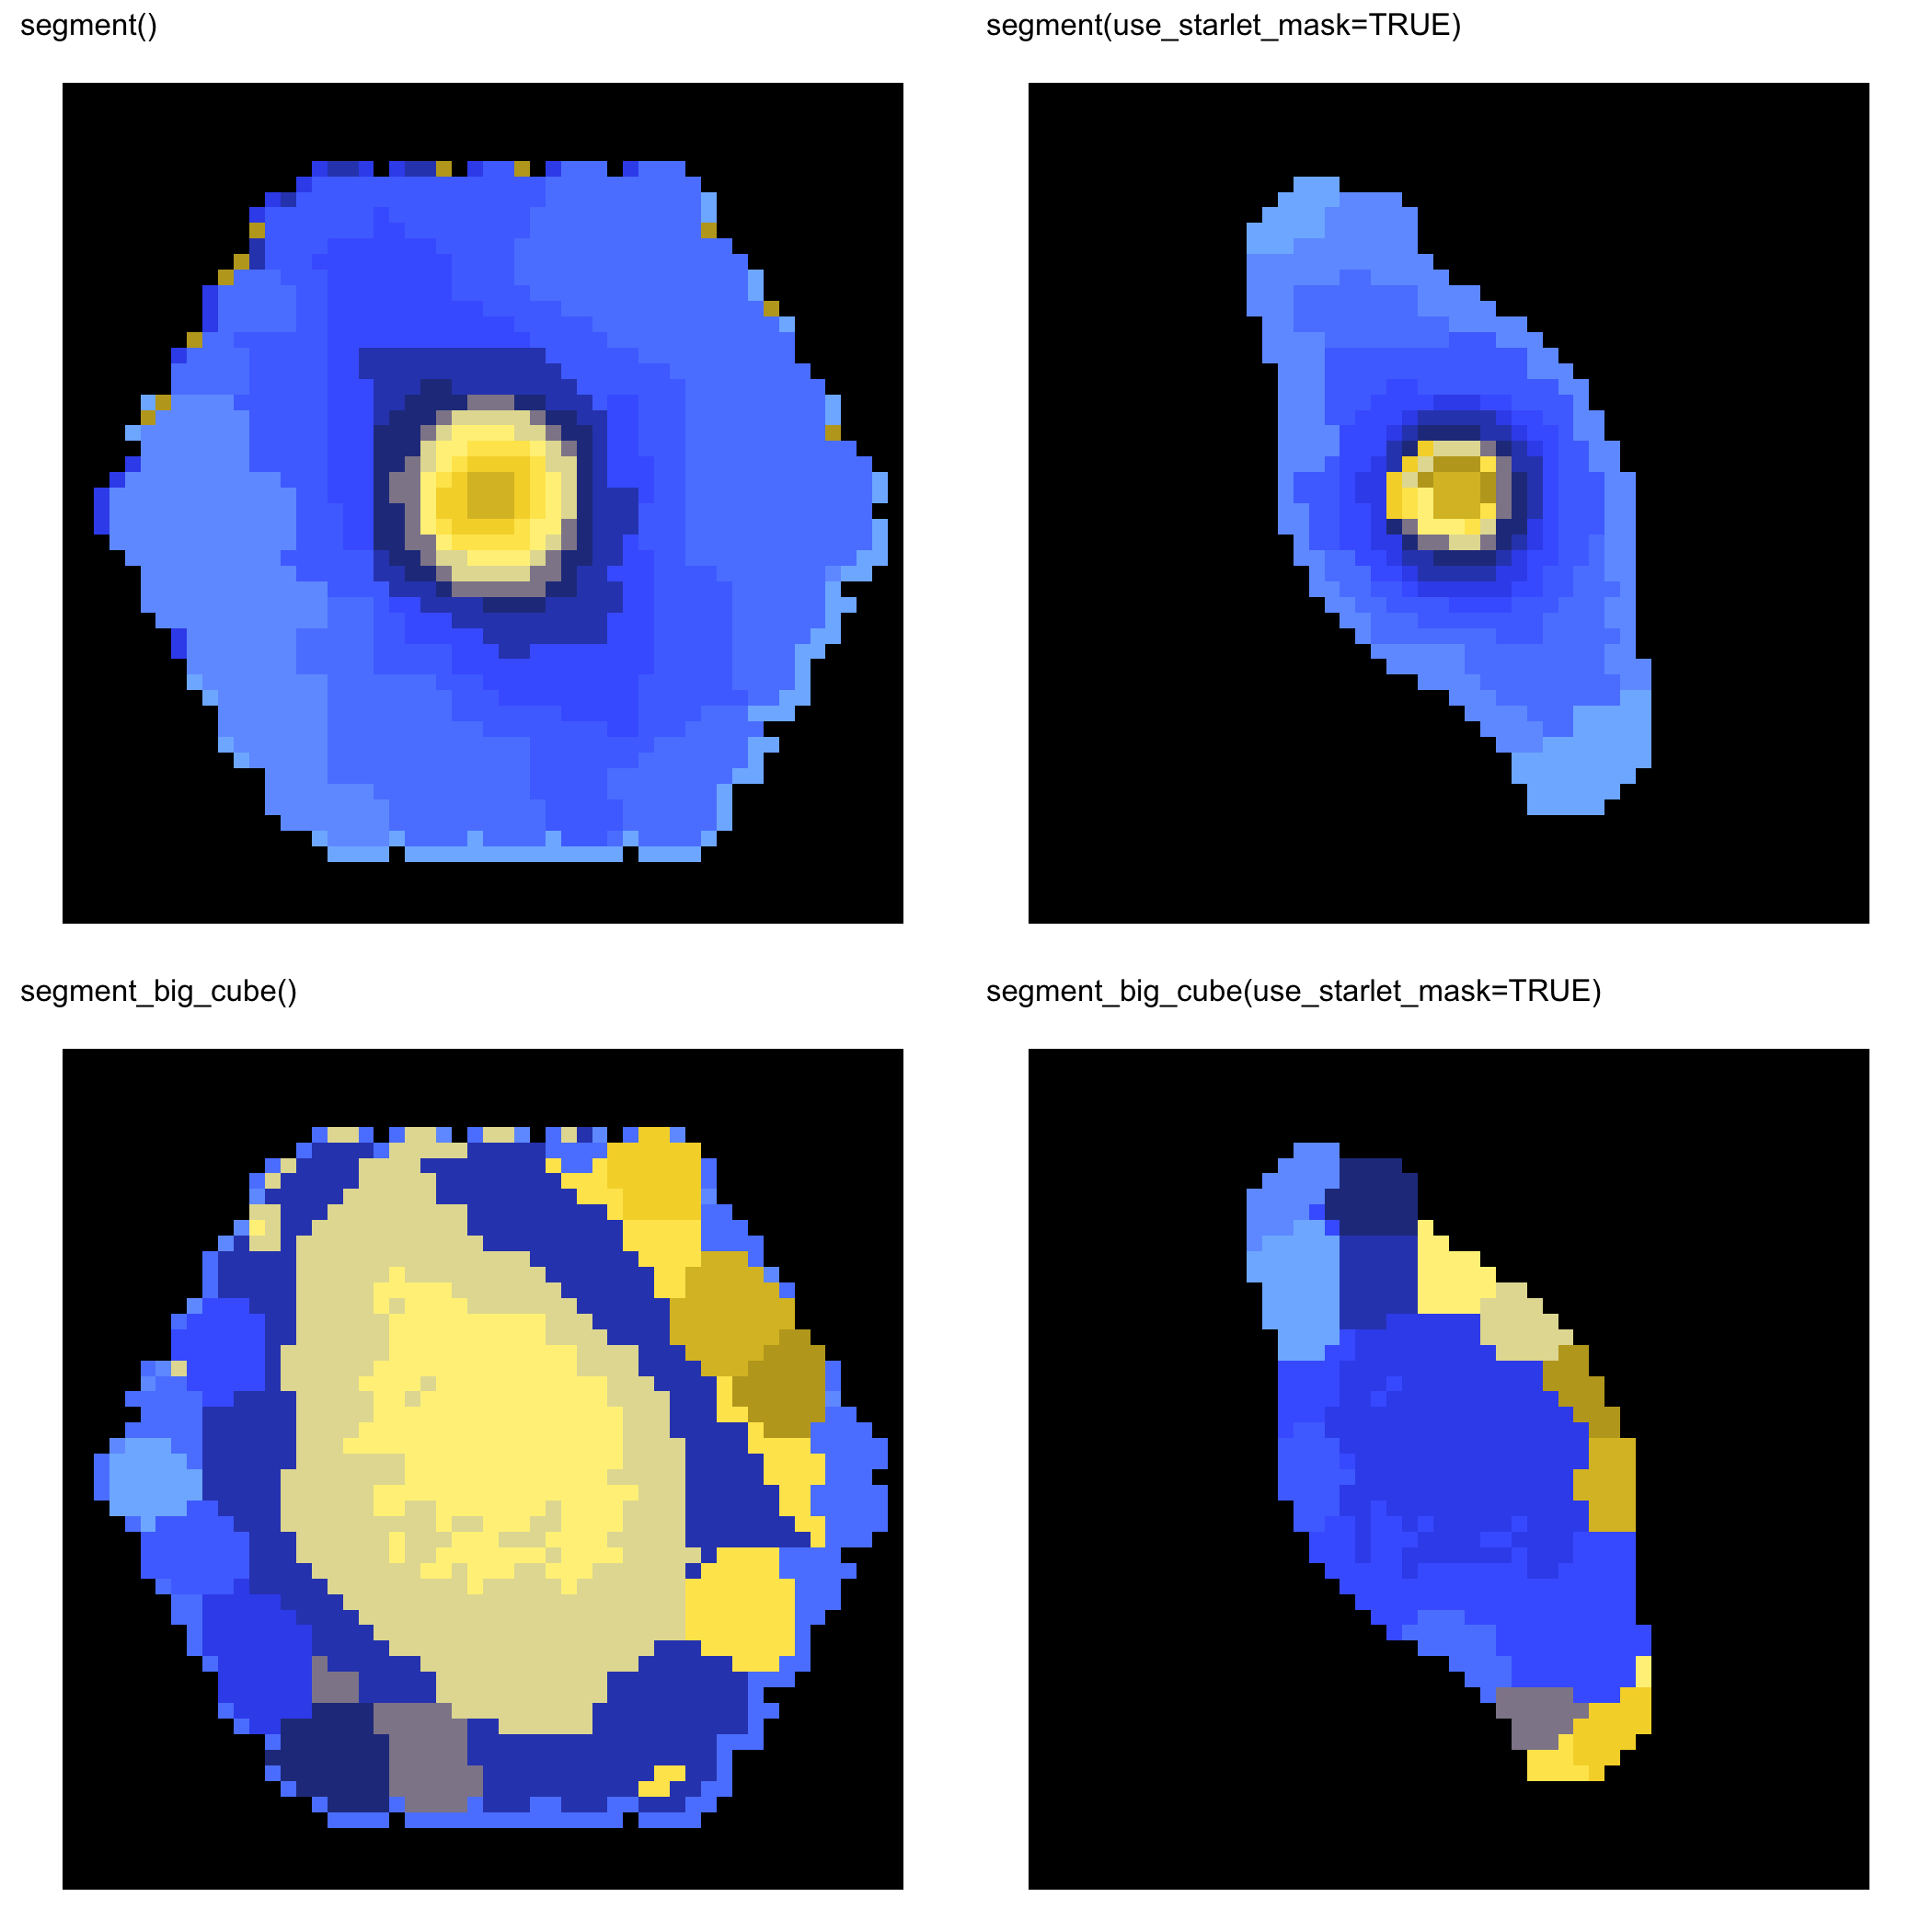
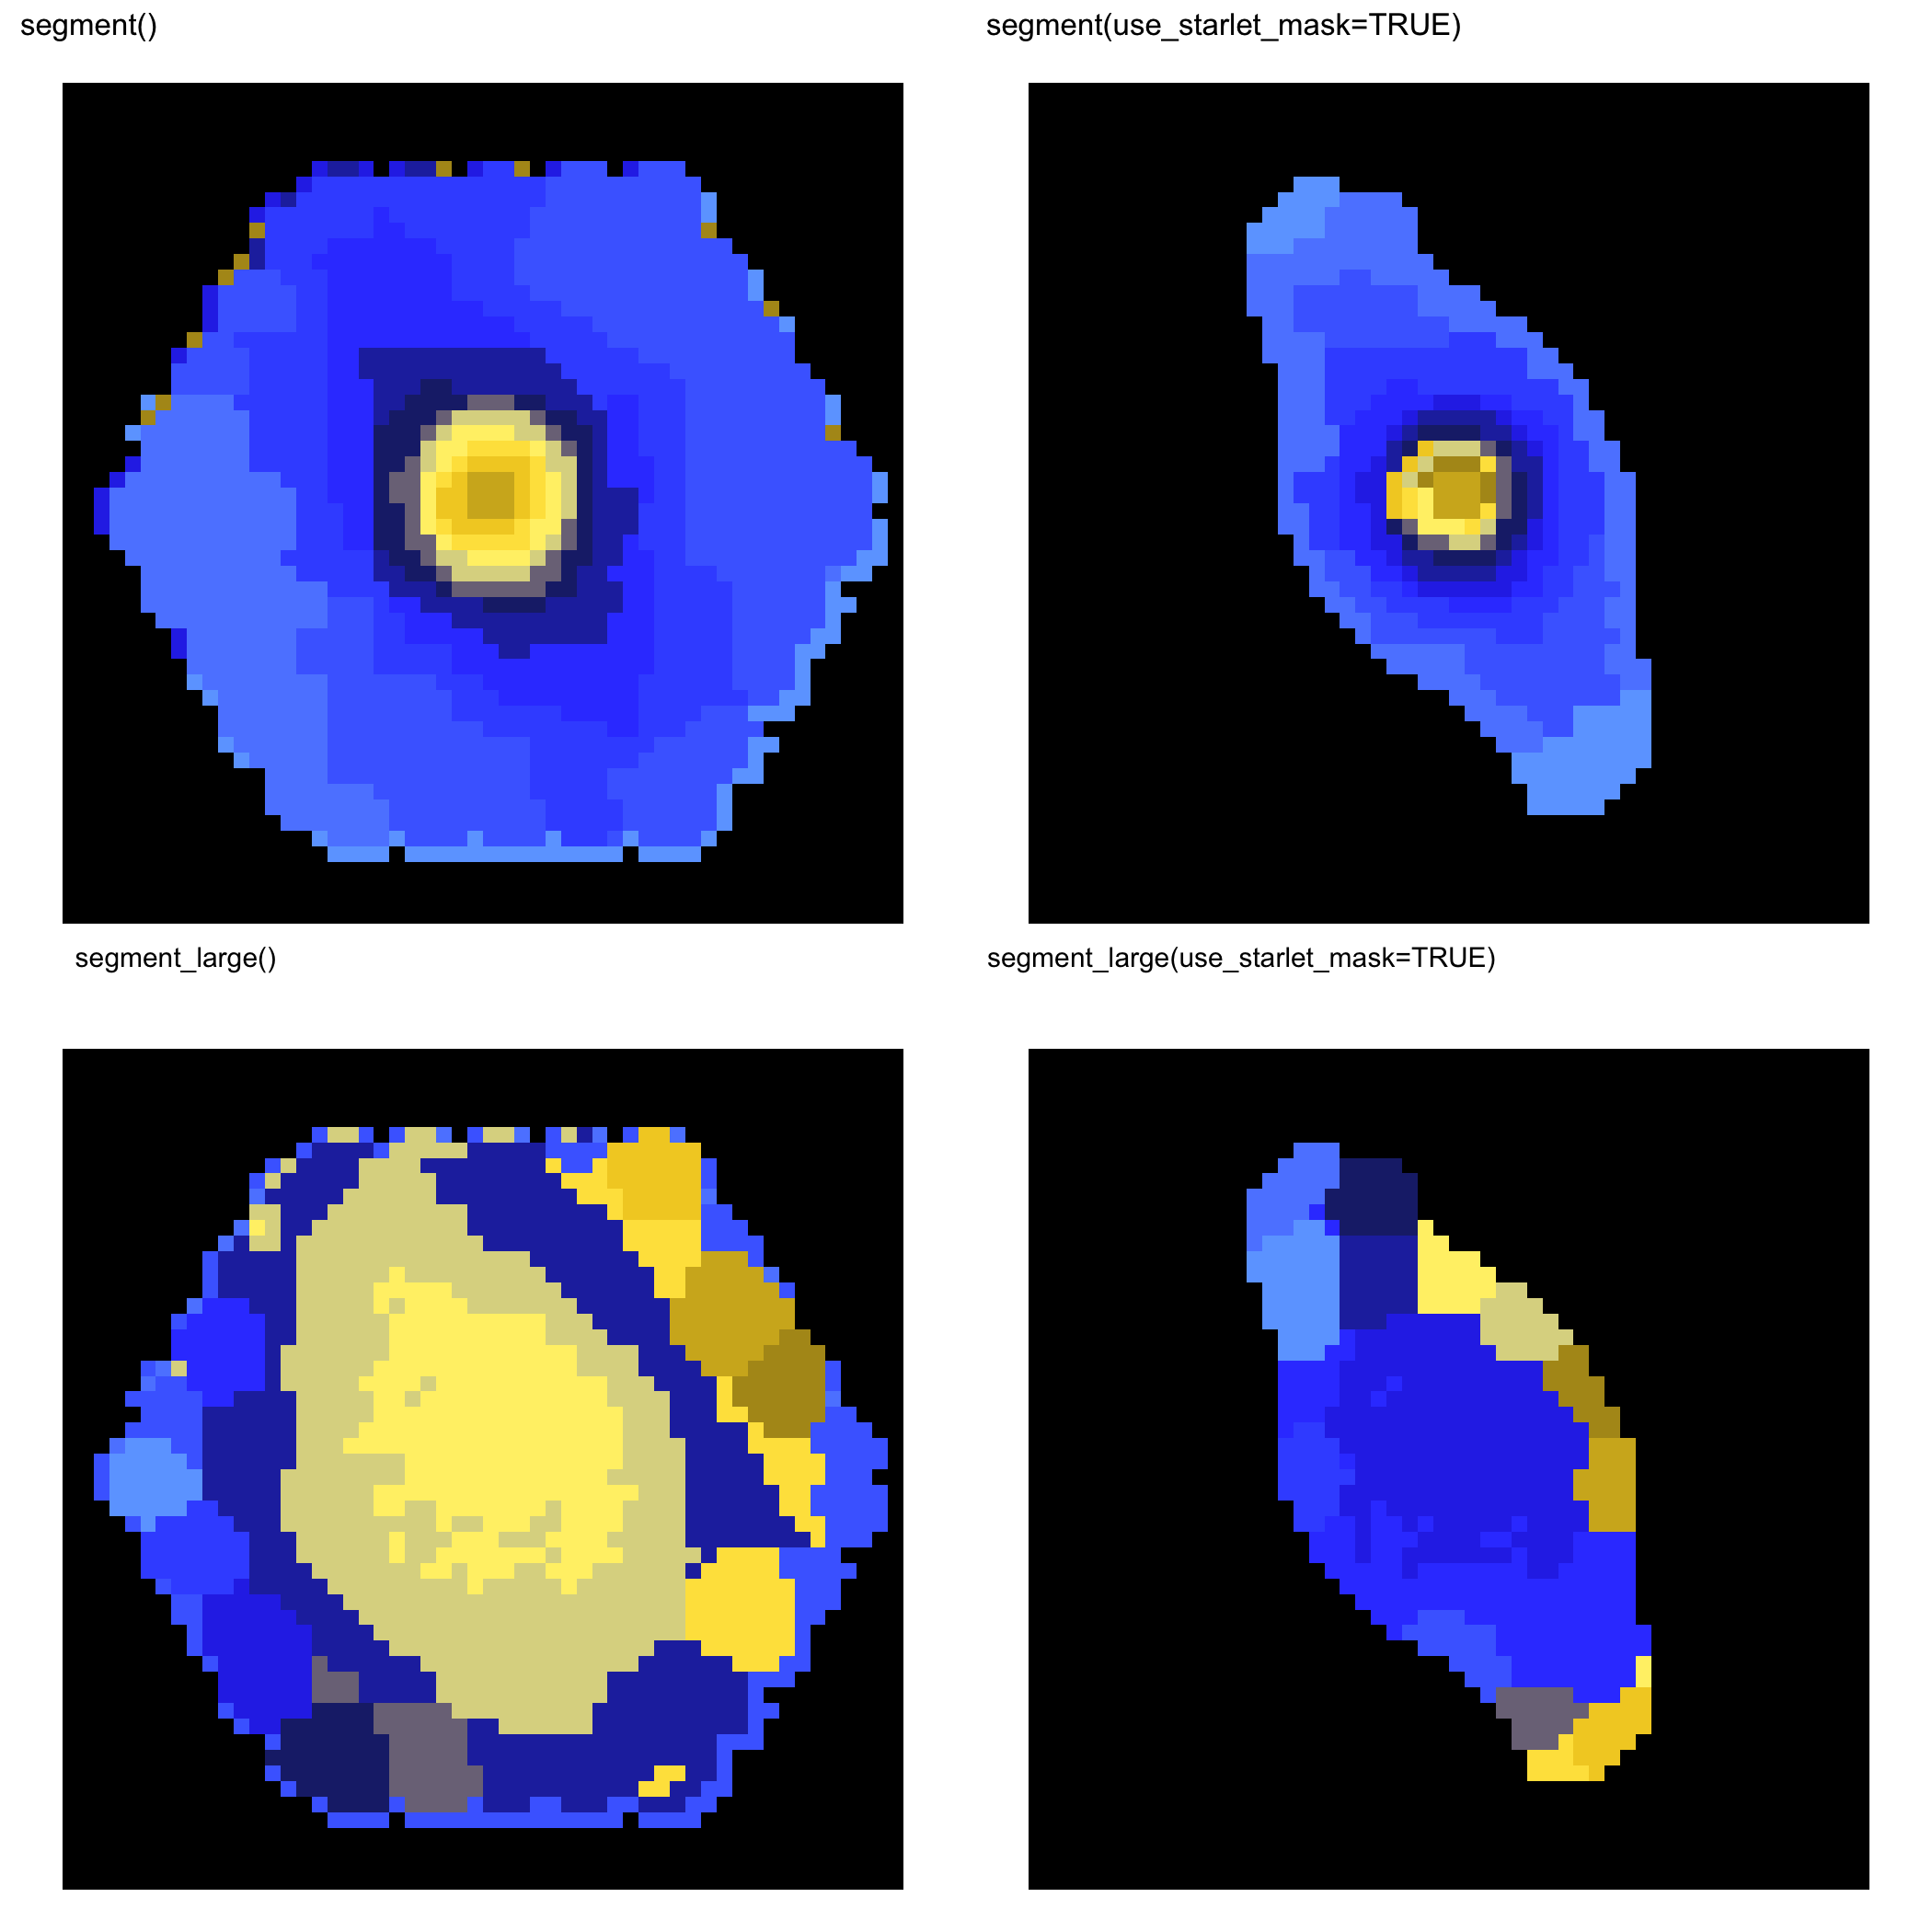
f

diff --git a/README.md b/README.md
@@ -55,7 +55,7 @@ seg <- segment_large(
   use_starlet_mask = TRUE,
   starlet_J = 5,
   starlet_scales = 2:5,
-  knn_k = 50
+  knn_k = 100
 )
 
 print(seg$backend_info)
@@ -88,7 +88,7 @@ seg_ha <- segment_large(
   input = x,
   Ncomp = 25,
   use_starlet_mask = TRUE,
-  knn_k = 50,
+  knn_k = 100,
   feature_wavelength_range = c(6500, 6625)
 )
 
@@ -168,15 +168,17 @@ seg <- segment_large(
   input = x,
   Ncomp = 50,
   use_starlet_mask = TRUE,
-  knn_k = 50,
+  knn_k = 100,
   feature_wavelength_range = c(6500, 6625)
 )
 ```
 
 `segment_large()` mirrors the output structure of `segment()` while
-avoiding the full all-pairs distance matrix. It uses the same default
-row scaling as `segment()` and is the recommended route for large MaNGA,
-MUSE, LSST, JPAS, and ALMA-style cubes.
+avoiding the full all-pairs distance matrix. Its default validity screen
+follows Sagui's sparse-Ward backend for coherent kNN graphs. Increasing
+`knn_k` makes the graph denser and usually closer to exact Ward;
+`knn_k = 100` is a good visual/science starting point for MaNGA- or
+JPAS-style examples.
 
 ## Starlet support masks
 
@@ -192,10 +194,10 @@ seg <- segment_large(
   starlet_J = 5,
   starlet_scales = 2:5,
   include_coarse = FALSE,
-  denoise_k = 0,
+  denoise_k = 2.5,
   positive_only = TRUE,
   mask_mode = "na",
-  knn_k = 50
+  knn_k = 100
 )
 ```
 
@@ -285,17 +287,12 @@ same region maps and summed spectra:
 This separation keeps Capivara installable and focused while still
 allowing a complete analysis workflow.
 
-## Reproducible examples
+## Visual example
 
-The panels below were generated with the public API on full MaNGA cubes.
+This panel shows the exact and scalable segmentation APIs with and without
+the starlet support mask.
 
-### MaNGA 8135-12701
-
-<img src="images/examples/manga_8135_12701_compare.png" width="960" alt="MaNGA 8135-12701 comparison">
-
-### MaNGA 10224-6104
-
-<img src="images/examples/manga_10224_6104_compare.png" width="960" alt="MaNGA 10224-6104 comparison">
+<img src="images/examples/manga_8443_6102_compare.png" width="960" alt="MaNGA 8443-6102 comparison of segment and segment_large with and without starlet masking">
 
 ## Citation
 